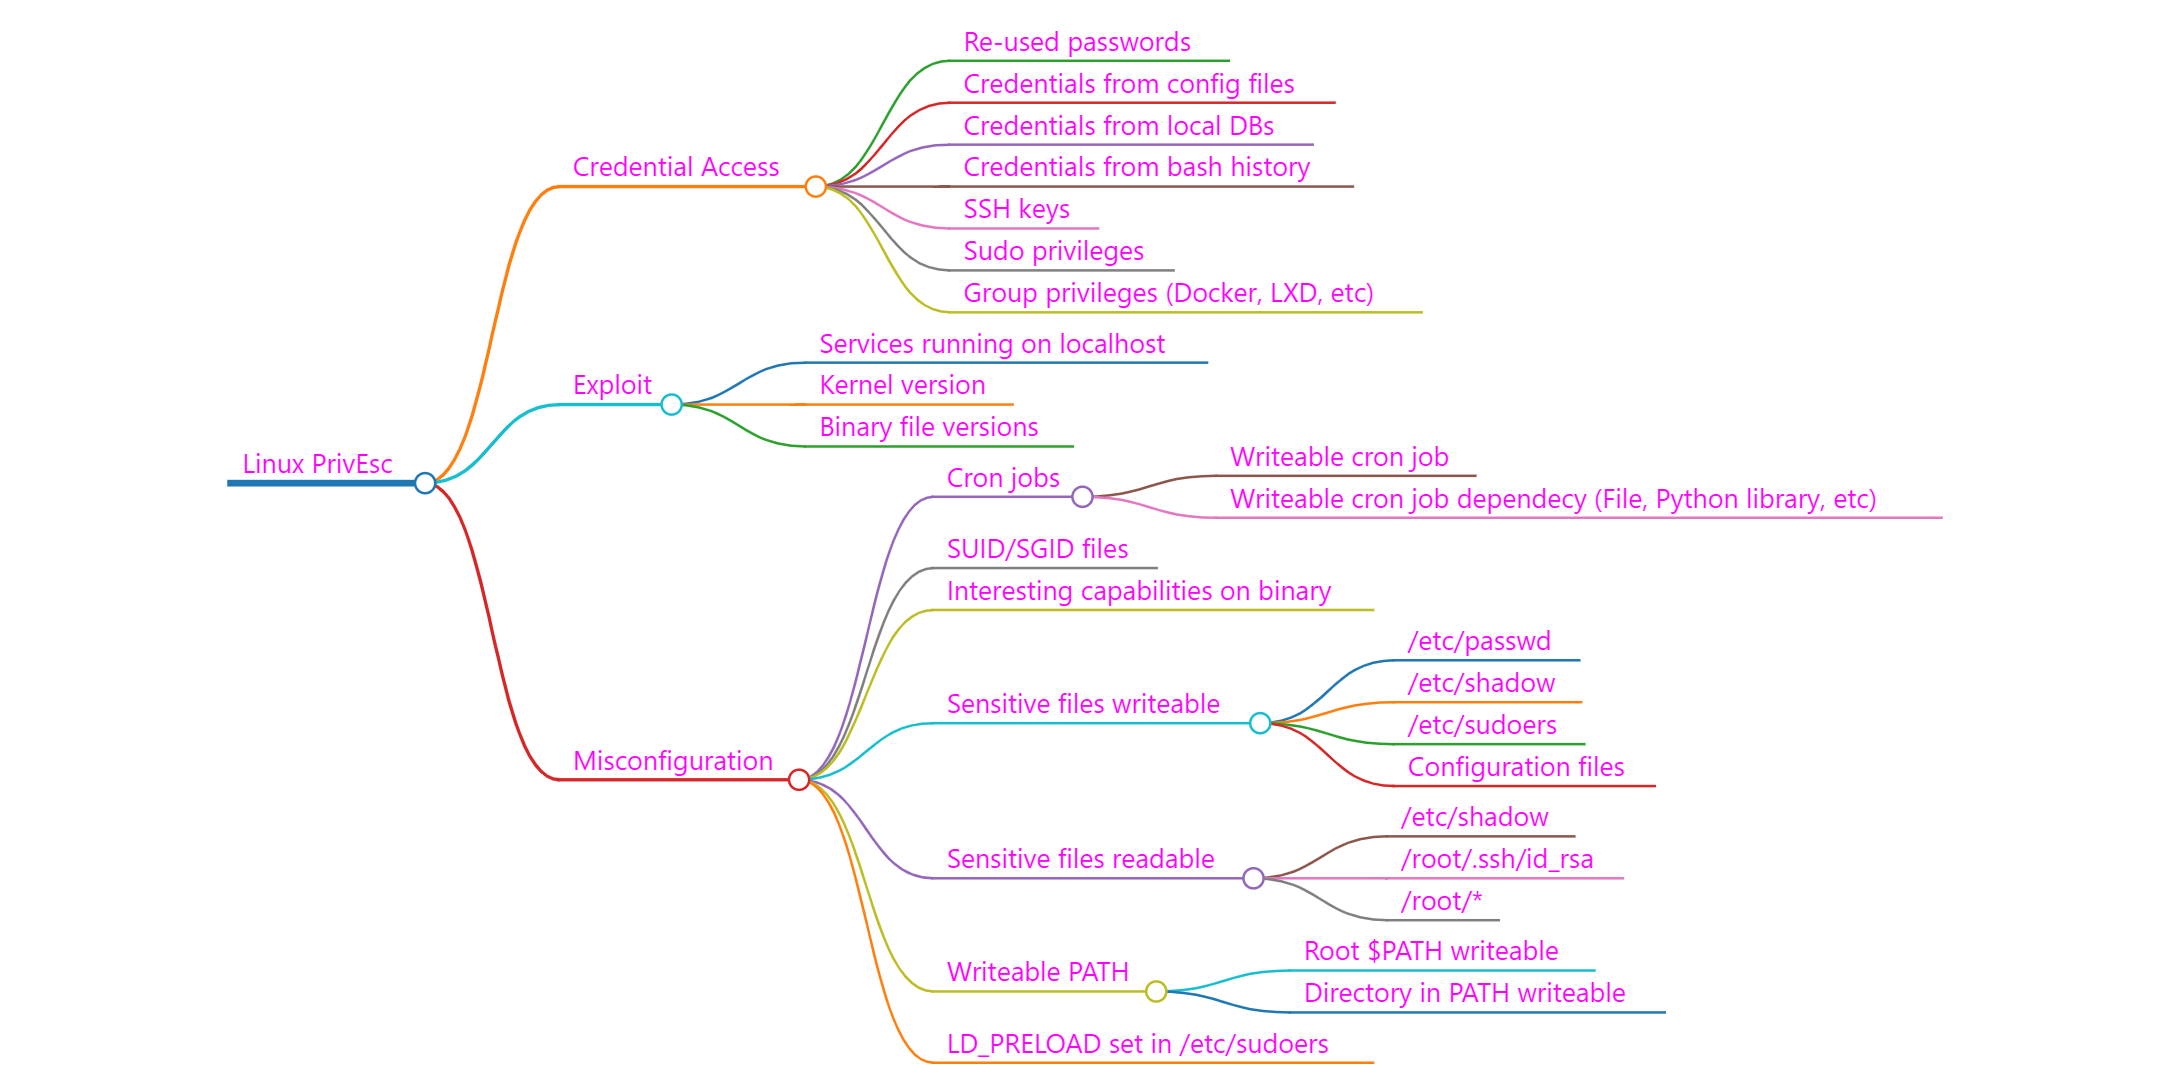
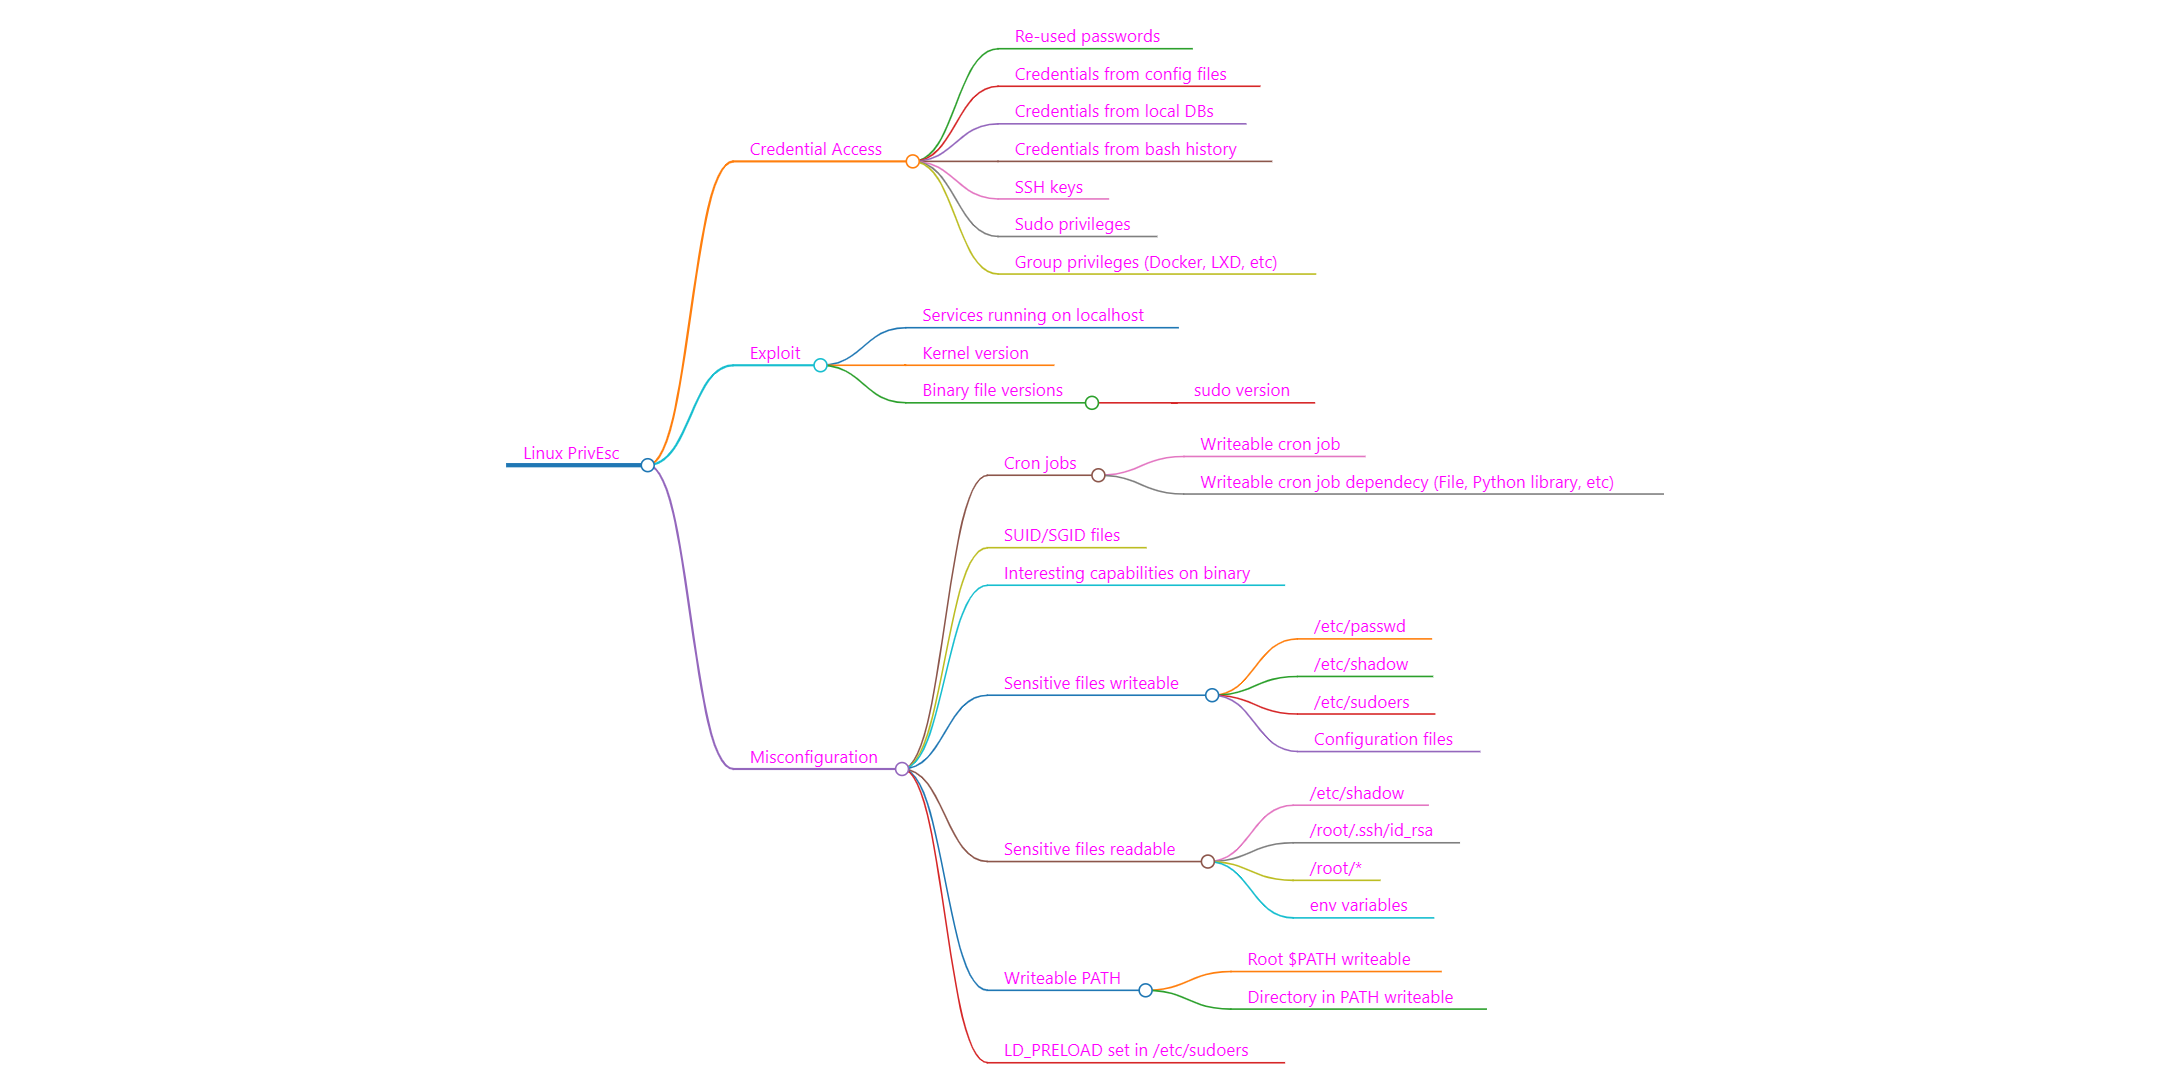
LinPrivesc, new links in readme, new readme format

Changed region(s): [[0.247, 0.0312, 0.8645, 0.9982], [0.0926, 0.3743, 0.3088, 0.4679], [0.5558, 0.3431, 0.5866, 0.3743]]

diff --git a/Methodologies/privesc_methodology👽.md b/Methodologies/privesc_methodology👽.md
@@ -1,11 +1,15 @@
 # Privilege Escalation Methodology👽
-## ON-GO
+##  Few words before going on
 "**Slow is smooth, and smooth is fast**"
-Be methodical in what you do.
-So you're inside the system and you wanna pop that damn root shell? Calm down as you have to go deeper into the target.
+Be methodical in what you do or you will get lost. 
 
-We think that the mind map provived by Conda (please, go support him on his YouTube channel) is very useful and straightforward. So, we've decided to translate it into this checklist.
-You can find the mindmap created with Obsidian by us here ![[linux_privesc_mindmap.png]] and the Conda's original one (That is better in term of design) here. Go check his playlist on YouTube!, you can find the link under the PrivEsc section inside README.MD ([[README#PrivEsc]])
+Now we are inside the system as a low-privileged user, to obtain an elevated privileged user account we have to find a vector we can use to climb the privileges ladder.
+
+#### Mind map & checklist
+We think that the mind map provived by Conda (please, go support him on [his](https://www.youtube.com/channel/UCzK5oAENyQJcnH5SvEquo8A) YouTube channel) is very useful and straightforward. So, we've decided to translate it into this checklist. While the mind map gives you an immediate overview of what you should do, the checklist gives you the possibility to visualize what you already have done.
+You can find the mind map created with Obsidian by us here  ![[linux_privesc_mindmap.png]] and the Conda's original one (That is better in term of design) [here](https://github.com/C0nd4/OSCP-Priv-Esc). Go check his playlist on YouTube!, you can find the link under the PrivEsc section inside README.MD ([[README#PrivEsc]])
+
+_**Be aware**: our translation does not completely reflect the Conda's mind map as we added/modified some parts._
 
 ## Linux
 ### Credential Access
@@ -14,7 +18,7 @@ You can find the mindmap created with Obsidian by us here ![[linux_privesc_mindm
 > grep \--color\=auto \-rnw '/' \-ie "PASSWORD" \--color\=always 2> /dev/null
 > find . \-type f \-exec grep \-i \-I "PASSWORD" {} /dev/null
 > locate password | more
-- [ ] Search creds from local DBs:
+- [ ] Search creds from local DBs
 - [ ] Search creds from bash history:
 > history
 > cat ~/.bash_history
@@ -27,7 +31,7 @@ You can find the mindmap created with Obsidian by us here ![[linux_privesc_mindm
 > find / -name id_rsa 2> /dev/null
 - [ ] Sudo privileges:
 > sudo -l
-- [ ] Group privileges:
+- [ ] Group:
 > id
 > groups
 
@@ -35,12 +39,12 @@ You can find the mindmap created with Obsidian by us here ![[linux_privesc_mindm
 - [ ] Services running on localhost are vulnerable?
 > ps aux
 > ps aux | grep root
-- [ ] Kernel version, vulnerable?
+- [ ] Kernel version,  is it vulnerable?
 > uname -a
 > (cat /proc/version || uname -a ) 2>/dev/null
 > lsb_release -a 2>/dev/null
 - [ ] Binary file versions, vulnerable?
-> ff
+> sudo -V
 
 ### Misconfiguration
 - [ ] Cron job -> check for write permissions on the following files:
@@ -72,17 +76,18 @@ You can find the mindmap created with Obsidian by us here ![[linux_privesc_mindm
 - [ ] Find SUID:
 > find / -perm -4000 -type f -exec ls -la {} 2>/dev/null \\;
 > find / -uid 0 -perm -4000 -type f 2>/dev/null
+- [ ] Check SUID on [GTFOBins](https://gtfobins.github.io/)
 - [ ] Create SUID:
->
-- [ ] SGID:
 ```bash
 print 'int main(void){\\nsetresuid(0, 0, 0);\\nsystem("/bin/sh");\\n}' \> /tmp/suid.c   
 gcc -o /tmp/suid /tmp/suid.c  
 sudo chmod +x /tmp/suid # execute right
 sudo chmod +s /tmp/suid # setuid bit
 ```
-- [ ] Interesting capabilities on binary:
-> ff
+- [ ] SGID:
+> find / -perm -g=s -type f 2>/dev/null
+> find / -perm +2000 -user root -type f -print
+- [ ] Interesting capabilities on binary
 - [ ] Any accessible sensitive file?
 	- [ ] /etc/passwd
 	- [ ] /etc/shadow
@@ -97,13 +102,8 @@ sudo chmod +s /tmp/suid # setuid bit
 	- [ ] Root $PATH writeable
 	- [ ] Directory in PATH writeable
 - [ ] LD_PRELOAD set in /etc/sudoers
-
+- [ ] Nothing yet? Google-Fu the web to look for other checklists
 ## Windows
-### System Enumeration
-- [ ] uname -a
-- [ ] ca
-### User Enumeration
-### Network Enumeration
-### Password Hunting
-
-
+### Credential Access
+### Exploit
+### Misconfiguration

diff --git a/README.md b/README.md
@@ -10,7 +10,7 @@
 # OSCP
 We maintain this repo with the aim to gather all the info that we’d found useful and interesting for the OSCP. We also collect material from other resources (websites, courses, blogs, git repos, books, etc).
 
-**Before continue**: we are still working on this repo as we go on with our OSCP journey. This means we'll add or remove parts without giving notice.
+**Before continue**: we are still working on this repo as we go on with our OSCP journey. This means we'll add or remove parts without giving notice. Furthermore, this is not intended to be a comprehensive repo, cross-reference and information gathering are your friends.
 
 ## TOC
 - [How to navigate the repo](#how-to-navigate-the-repo)
@@ -100,18 +100,29 @@ We think the graph view provided by Obsidian is a pleasant way to have a visual 
 - [Do Stack Bufferoverflow Good](https://github.com/justinsteven/dostackbufferoverflowgood)
 
 ## PrivEsc
+#### General
+- [PayloadAllTheThings - Linux Privilege Escalation methodology](https://github.com/swisskyrepo/PayloadsAllTheThings/blob/master/Methodology%20and%20Resources/Linux%20-%20Privilege%20Escalation.md)
+- [PayloadAllTheThings - Windows Privilege Escalation methodology](https://github.com/swisskyrepo/PayloadsAllTheThings/blob/master/Methodology%20and%20Resources/Windows%20-%20Privilege%20Escalation.md)
 - [Basic Linux Privilege Escalation](https://blog.g0tmi1k.com/2011/08/basic-linux-privilege-escalation/)
+#### YouTube
 - [Conda's YouTube Privilege Escalation playlist](https://www.youtube.com/watch?v=VpNaPAh93vE&list=PLDrNMcTNhhYrBNZ_FdtMq-gLFQeUZFzWV)
 - [Windows Privilege Escalation Fundamentals](http://www.fuzzysecurity.com/tutorials/16.html)
 - [Privilege Escaltion FTW (Jake Williams)](https://www.youtube.com/watch?v=yXe4X-AIbps)
 - [Elevating your Windows Privileges Like a Boss! (Jake Williams)](https://www.youtube.com/watch?v=SHdM197sbIE)
+- [Weird PrivEsc Techinques](https://www.youtube.com/watch?v=wyeRPSjnNjY)
+#### Gamify Learning
 - [Tib3rius' Linux PrivEsc](https://tryhackme.com/room/linuxprivesc)
 - [Tib3rius' Windows PrivEsc](https://tryhackme.com/room/windows10privesc)
-- [Weird PrivEsc Techinques](https://www.youtube.com/watch?v=wyeRPSjnNjY)
+####  Linux Capabilities
+- [Linux Privilege Escalation using Capabilities](https://www.hackingarticles.in/linux-privilege-escalation-using-capabilities/)
+- [Linux Capabilities](https://github.com/carlospolop/hacktricks/blob/master/linux-unix/privilege-escalation/linux-capabilities.md)
+- [Day 44: Linux Capabilities Privilege Escalation via OpenSSL with SELinux Enabled and Enforced](https://int0x33.medium.com/day-44-linux-capabilities-privilege-escalation-via-openssl-with-selinux-enabled-and-enforced-74d2bec02099)
+- [Privilege Escalation by abusing SYS\_PTRACE Linux Capability](https://blog.pentesteracademy.com/privilege-escalation-by-abusing-sys-ptrace-linux-capability-f6e6ad2a59cc)
 
 ## Methodologies
 - [CTF Series : Vulnerable Machines](https://bitvijays.github.io/LFC-VulnerableMachines.html)
 - [Post Exploitation](https://n00bpentesting.wordpress.com/lessons/ptes-101/post-exploitation/)
+- [PayloadAllTheThings - Methodology and Resources](https://github.com/swisskyrepo/PayloadsAllTheThings/tree/master/Methodology%20and%20Resources)
 ## Automation scripts
 - [Autorecon](https://github.com/Tib3rius/AutoRecon)
 - [Onetwopunch](https://github.com/superkojiman/onetwopunch)

diff --git a/Methodologies/post_exploitation⛏.md b/Methodologies/post_exploitation⛏.md
@@ -1,7 +1,7 @@
 # Post exploitation ⛏
 "It's not over till it's over"
 Ok, you got root, good job! Now you can start working.
-The exploitation and privesc phases are important, but this is more important. An host that only you can reach, that it has not got anything interesting inside and that it is not useful for pivoting.. well **generally** that's not useful for your pentesting.
+The exploitation and privesc phases are important, but do not underestimate this one. An host that only you can reach, that it has not got anything interesting inside and that it is not useful for pivoting.. well **generally** that's not useful for your pentesting (It depends on assignment).
 
 During this phase, you should gather additional information about your target, in order to:
 - Get pesistence
